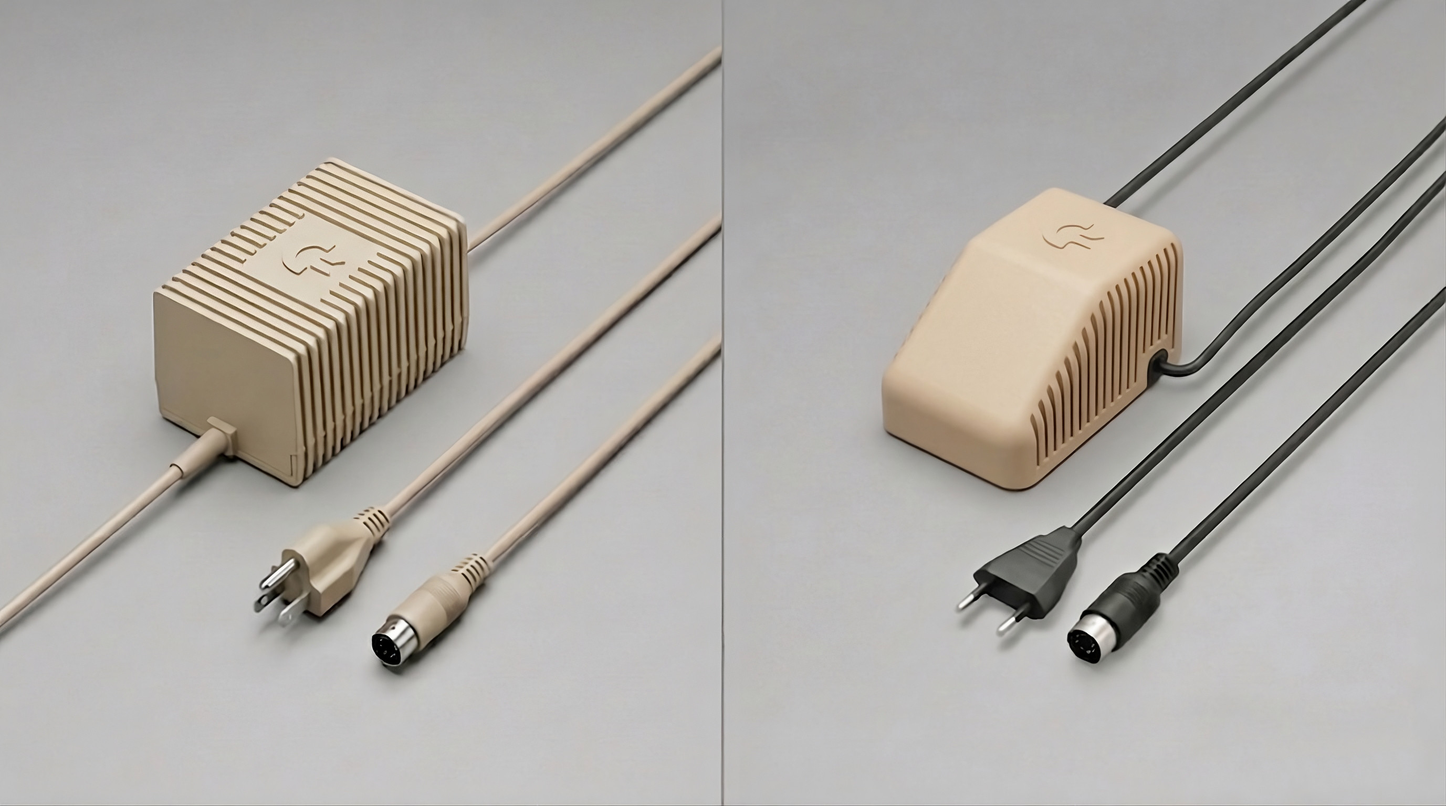
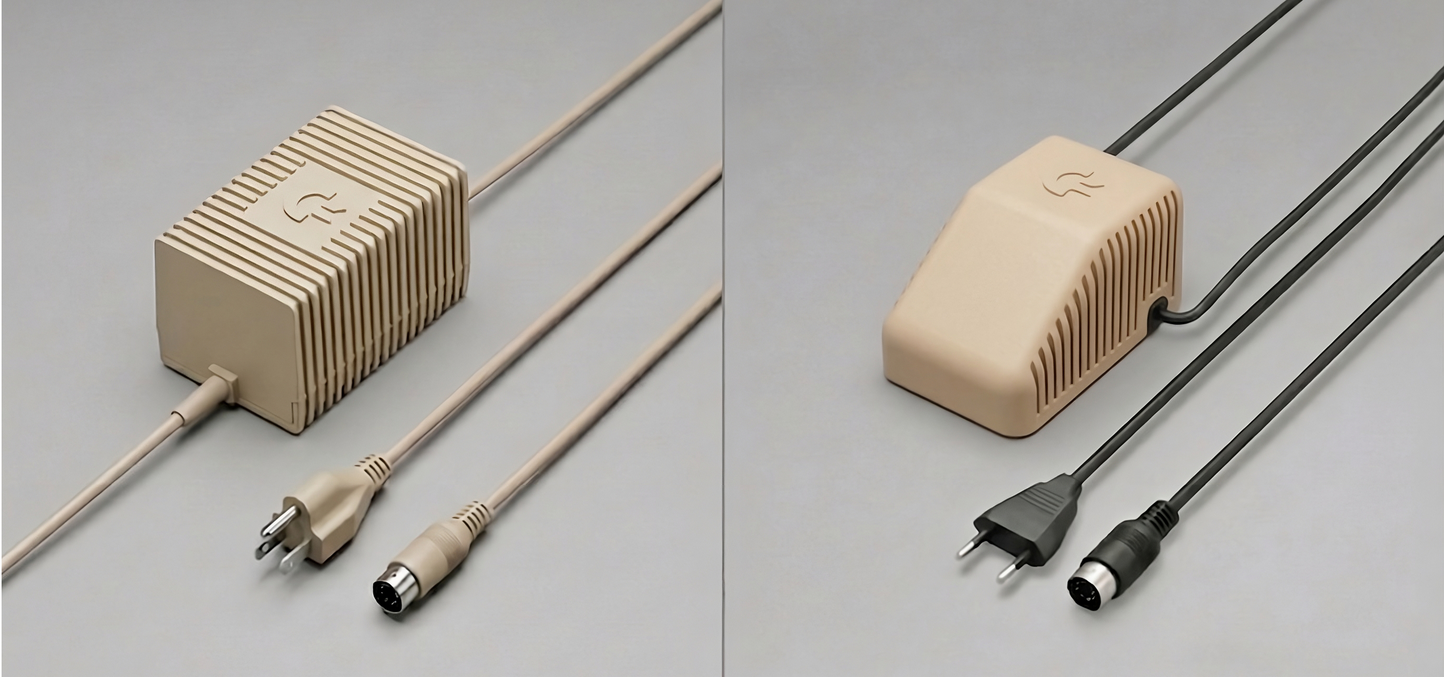
Switch intro PSU image to JPG, remove unused image files

diff --git a/index.html b/index.html
@@ -843,7 +843,7 @@
       <p>The original Commodore 64 power supply — that iconic black "brick" with the C= logo — is one of the most notorious failure points in the entire C64 ecosystem. After decades of use, the internal 5VDC voltage regulator can fail <strong>catastrophically</strong>, sending an uncontrolled surge of voltage directly into your C64's sensitive RAM chips and integrated circuits. The result is permanent, often irreparable damage to a machine that may have survived <span id="c64-age"></span>+ years.</p>
 
       <div class="img-block">
-        <img src="img/c64-psu-uscan-euro-divider-16-9.png" alt="Original Commodore 64 power supplies — US/Canada brick (left) and European wedge (right)">
+        <img src="img/c64-psu-uscan-euro-divider-16-9.jpg" alt="Original Commodore 64 power supplies — US/Canada brick (left) and European wedge (right)">
         <div class="img-caption">The original C64 power supplies: the "brick" (US/Canada, left) and the "wedge" (Europe, right). Both are prone to the same age-related 5VDC regulator failure that the C64 Saver protects against.</div>
       </div>
 
